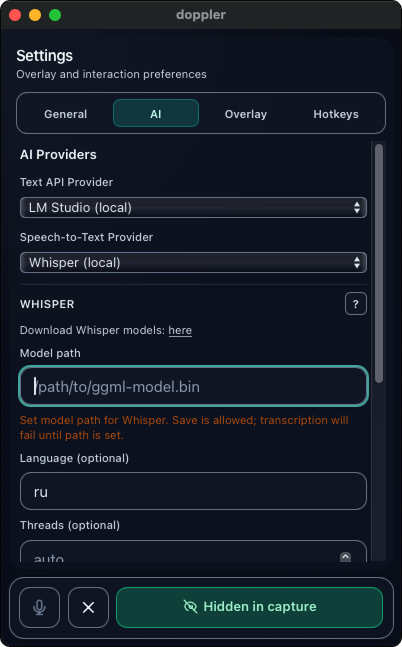
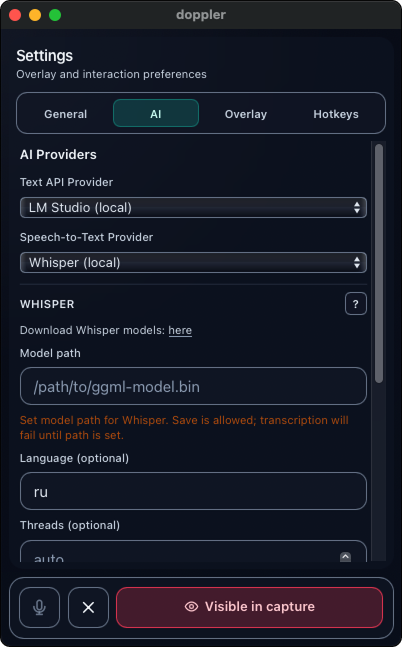
docs: update readme and settings screenshot

Changed region(s): [[0.2687, 0.8964, 0.9552, 0.9892], [0.8657, 0.5564, 0.9254, 0.6491], [0.0299, 0.5564, 0.0896, 0.6491]]

diff --git a/README.md b/README.md
@@ -24,7 +24,7 @@ Doppler is a lightweight, privacy-focused desktop assistant that combines the po
 
 <div align="center">
   <img src="static/screen-chat.png" alt="Main Chat Interface" width="45%"/>
-  <img src="static/screen-settings-general.png" alt="Settings View" width="45%"/>
+  <img src="static/screen-settings.png" alt="Settings View" width="45%"/>
 </div>
 
 ### Key Features
